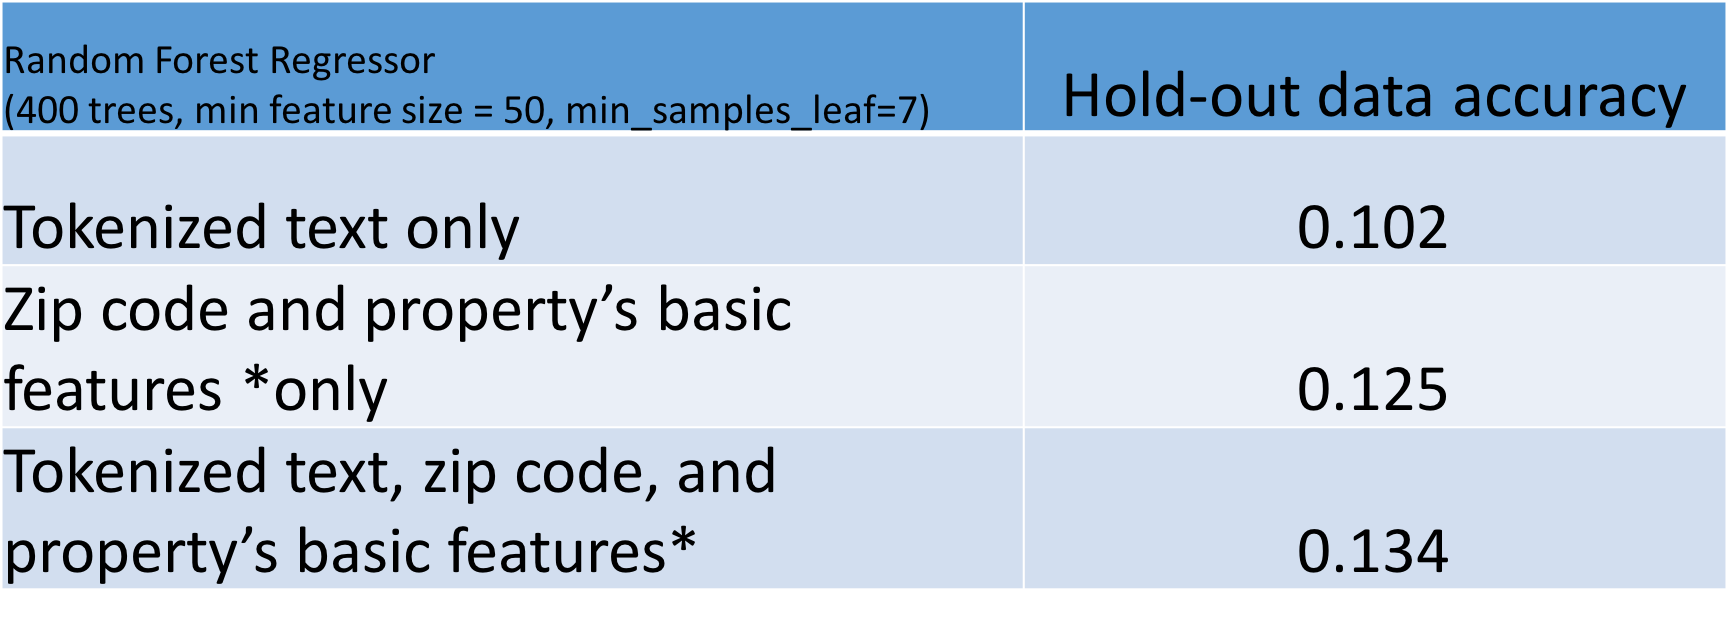
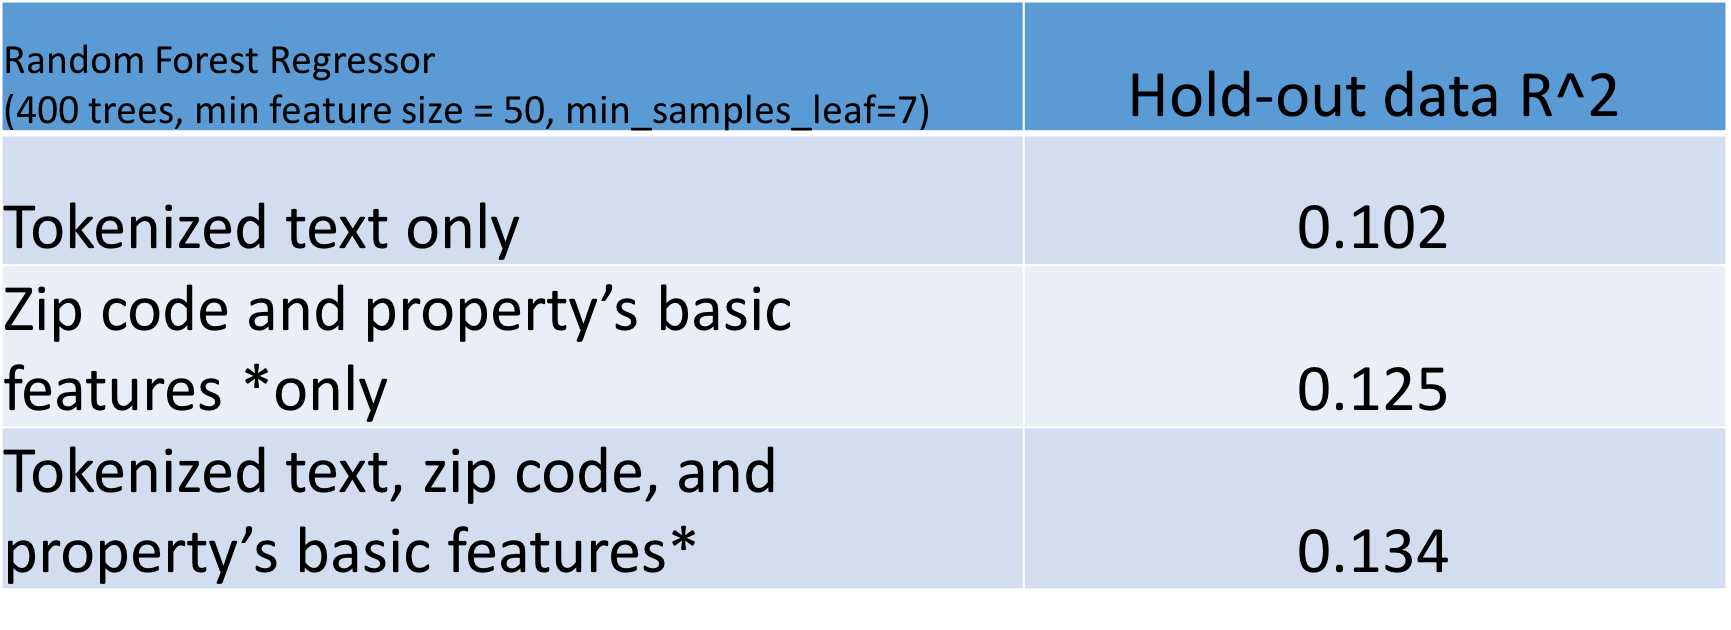
corrected accuracy to R^2

Changed region(s): [[0.5927, 0.0905, 0.9671, 0.2111]]

diff --git a/README.md b/README.md
@@ -15,9 +15,9 @@ Background
 
 Executive summary
 -----------------
-1. With the tokenized text features only, the accuracy for a hold-out set of data for our trained model is 0.103.
-2. The accuracy improves to 0.134 if the *basic features* of the property are included in the model.  (Basic features are: zip code, home size (sq. ft.), number of bedrooms, number of bathrooms, and asking price.)
-3. The accuracy of a model that employs only the *basic features* is 0.124.
+1. With the tokenized text features only, R^2 for a hold-out set of data for our trained model is 0.103.
+2. R^2 improves to 0.134 if the *basic features* of the property are included in the model.  (Basic features are: zip code, home size (sq. ft.), number of bedrooms, number of bathrooms, and asking price.)
+3. R^2 of a model that employs only the *basic features* is 0.124.
 
 This means the tokenized agents’ descriptions by themselves can explain 10.3% of the variance in the predictions.  While this score may seem low at first glance, it is not surprising because the price ratio is determined by many factors which are only partly or not at captured by the agents' descriptions at all. These factors include the economy and the buyers' state of mind and finances.  Also, the San Francisco Bay Area market is heavily skewed toward optimism, so it is extra challenging to distinguish the sentiments of the agent.   Our study shows that the agents' descriptions have some predictive values for the price ratio.  Further work in the future should focus on an area where the housing market is less skewed (i.e., where the average price ratio ~ 1).
 
@@ -53,14 +53,14 @@ Modeling
 ![Price ratio vs. number of bedrooms](/images/Price_ratio_vs_bedrooms.png)
 ![Price ratio vs. number of bathrooms](/images/Price_ratio_vs_bathrooms.png)
 
-- In general the accuracy does not improve beyond 400 trees (number of estimators). We fixed the minimum number of samples in newly created leaves to be the square root of maxiumum feature size.
+- In general R^2 does not improve beyond 400 trees (number of estimators). We fixed the minimum number of samples in newly created leaves to be the square root of maxiumum feature size.
 
 - Maximum features used per tree (max_features) = 0.8
 
 - The accuracies of random forest models at different *max feature size* and *min leaves* with text features only, basic features only, and both text and basic features are listed in the table below.
-	1. With the tokenized text features only, the accuracy of our trained model on a hold-out set of data is 0.103.
-	2. The accuracy of a model with only the *basic features* is 0.124.
-	3. The accuracy improves to 0.134 if the *basic features* of the property are included in the model.  (Basic features are: zip code, home size (sq. ft.), number of bedrooms, number of bathrooms, and asking price.)
+	1. With the tokenized text features only, R^2 of our trained model on a hold-out set of data is 0.103.
+	2. The R^2 of a model with only the *basic features* is 0.124.
+	3. R^2 improves to 0.134 if the *basic features* of the property are included in the model.  (Basic features are: zip code, home size (sq. ft.), number of bedrooms, number of bathrooms, and asking price.)
 - Based on the results in the table below, we decided to employ the following parameters:
 	- Number of estimators = 400
 	- Max feature size = 50
